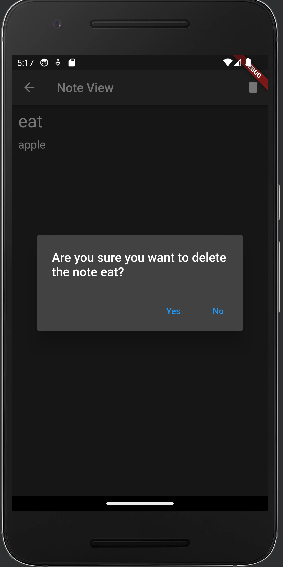
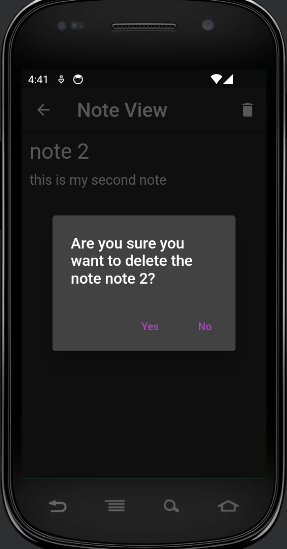
Applied light and dark theme

diff --git a/lib/module_screens/home_screen.dart b/lib/module_screens/home_screen.dart
@@ -20,18 +20,25 @@ class _HomeScreenState extends State<HomeScreen> with TickerProviderStateMixin{
       return notes.where((note) => note.category == category).toList();
     }
     return Scaffold(
+      backgroundColor: Theme.of(context).colorScheme.background,
       appBar: AppBar(
-        title: const Center(
+        backgroundColor: Theme.of(context).colorScheme.background,
+        title: Center(
           child: Text("Notes App",
           style: TextStyle(
-            color: Colors.tealAccent,
+            color: Theme.of(context).colorScheme.secondary,
             fontSize: 26.0
             ),
           ),
         ),
       ),
-      body: _selectedIndex == 0 ? (notes.isEmpty ? const Center(
-        child: Text('Create notes using the button below.'),
+      body: _selectedIndex == 0 ? (notes.isEmpty ? Center(
+        child: Text(
+          'Create notes using the button below.',
+          style: TextStyle(
+            color: Theme.of(context).colorScheme.secondary,
+          ),
+        ),
       ) : ListView.builder(
         itemCount: notes.length,
         itemBuilder: (BuildContext context, int index){
@@ -46,6 +53,7 @@ class _HomeScreenState extends State<HomeScreen> with TickerProviderStateMixin{
 
       //ListViewBuilder(notes: notes, length: notes.length, context: context, onNoteDeleted: onNoteDeleted, onCategoryChanged: onCategoryChanged),
       bottomNavigationBar: BottomNavigationBar(
+        backgroundColor: Theme.of(context).colorScheme.background,
         items: const <BottomNavigationBarItem> [
           BottomNavigationBarItem(
             icon: Icon(Icons.home),
@@ -65,8 +73,8 @@ class _HomeScreenState extends State<HomeScreen> with TickerProviderStateMixin{
           ),
         ],
         currentIndex: _selectedIndex,
-        unselectedItemColor: Colors.white,
-        selectedItemColor: Colors.tealAccent,
+        unselectedItemColor: Theme.of(context).colorScheme.secondary,
+        selectedItemColor: Theme.of(context).colorScheme.primary,
         iconSize: 30.0,
         selectedFontSize: 20.0,
         onTap: (int index) {
@@ -81,6 +89,7 @@ class _HomeScreenState extends State<HomeScreen> with TickerProviderStateMixin{
         },
       ),
       floatingActionButton: _selectedIndex == 0 ? FloatingActionButton(
+        backgroundColor: Colors.purple.shade400,
         onPressed: () {
           Navigator.of(context).push(MaterialPageRoute(builder: (context) => CreateNote(onNewNoteCreated: onNewNoteCreated)));
         },

diff --git a/lib/module_screens/note_view.dart b/lib/module_screens/note_view.dart
@@ -10,10 +10,22 @@ class NoteView extends StatelessWidget {
   @override
   Widget build(BuildContext context) {
     return Scaffold(
+      backgroundColor: Theme.of(context).colorScheme.background,
       appBar: AppBar(
-        title: const Text('Note View'),
+        iconTheme: IconThemeData(
+          color: Theme.of(context).colorScheme.secondary,
+        ),
+        backgroundColor: Theme.of(context).colorScheme.background,
+        title: Text(
+          'Note View',
+          style: TextStyle(
+            color: Theme.of(context).colorScheme.secondary,
+              fontSize: 26.0
+          ),
+        ),
         actions: [
           IconButton(
+            color: Theme.of(context).colorScheme.secondary,
               onPressed: (){
                 showDialog(
                     context: context,
@@ -51,8 +63,9 @@ class NoteView extends StatelessWidget {
           children: [
             Text(
               note.title,
-              style: const TextStyle(
-                  fontSize: 28
+              style: TextStyle(
+                fontSize: 28,
+                color: Theme.of(context).colorScheme.secondary,
               ),
             ),
             const SizedBox(
@@ -60,8 +73,9 @@ class NoteView extends StatelessWidget {
             ),
             Text(
               note.body,
-              style: const TextStyle(
-                  fontSize: 18
+              style: TextStyle(
+                fontSize: 18,
+                color: Theme.of(context).colorScheme.secondary,
               ),
             ),
           ],

diff --git a/lib/widgets/note_card.dart b/lib/widgets/note_card.dart
@@ -23,6 +23,7 @@ class _NoteCardState extends State<NoteCard> {
         Navigator.of(context).push(MaterialPageRoute(builder: (context)=> NoteView(note: widget.note, index: widget.index, onNoteDeleted: widget.onNoteDeleted)));
         },
       child: Card(
+        color: Theme.of(context).colorScheme.background,
         child: Padding(
           padding: const EdgeInsets.all(10.0),
           child: Column(
@@ -31,8 +32,9 @@ class _NoteCardState extends State<NoteCard> {
               ListTile(
                 title: Text(
                   widget.note.title,
-                  style: const TextStyle(
-                      fontSize: 18
+                  style: TextStyle(
+                      fontSize: 18,
+                      color: Theme.of(context).colorScheme.secondary,
                   ),
                 ),
                 trailing: DropDown(
@@ -45,10 +47,14 @@ class _NoteCardState extends State<NoteCard> {
               const SizedBox(
                 height: 10,
               ),
-              Text(
-                widget.note.body,
-                style: const TextStyle(
-                    fontSize: 18
+              Padding(
+                padding: const EdgeInsets.all(10.0),
+                child: Text(
+                  widget.note.body,
+                  style: TextStyle(
+                    fontSize: 18,
+                    color: Theme.of(context).colorScheme.secondary,
+                  ),
                 ),
               ),
             ],

diff --git a/lib/main.dart b/lib/main.dart
@@ -1,5 +1,6 @@
 import 'package:flutter/material.dart';
 import 'package:notes_app/module_screens/home_screen.dart';
+import 'package:notes_app/theme/theme.dart';
 
 void main() {
   runApp(const MyApp());
@@ -7,16 +8,13 @@ void main() {
 
 class MyApp extends StatelessWidget {
   const MyApp({super.key});
-
   // This widget is the root of your application.
   @override
   Widget build(BuildContext context) {
     return MaterialApp(
-      title: 'Flutter Demo',
-      theme: ThemeData(
-        primarySwatch: Colors.blue,
-        brightness: Brightness.dark
-      ),
+      debugShowCheckedModeBanner: false,
+      theme: lightMode,
+      darkTheme: darkMode,
       home: const HomeScreen(),
     );
   }

diff --git a/lib/theme/theme.dart b/lib/theme/theme.dart
@@ -1,0 +1,19 @@
+import 'package:flutter/material.dart';
+
+ThemeData lightMode = ThemeData(
+  brightness: Brightness.light,
+  colorScheme: ColorScheme.light(
+    background: Colors.grey.shade50,
+    primary: Colors.purple.shade400,
+    secondary: Colors.grey.shade900,
+  )
+);
+
+ThemeData darkMode = ThemeData(
+  brightness: Brightness.dark,
+  colorScheme: ColorScheme.dark(
+    background: Colors.grey.shade900,
+    primary: Colors.purple.shade400,
+    secondary: Colors.grey.shade400,
+  )
+);

diff --git a/lib/widgets/dropdown.dart b/lib/widgets/dropdown.dart
@@ -16,6 +16,9 @@ class _DropDownState extends State<DropDown> {
   @override
   Widget build(BuildContext context) {
     return DropdownButton<String>(
+      style: TextStyle(
+        color: Theme.of(context).colorScheme.secondary,
+      ),
       value: widget.note.category.isNotEmpty ? widget.note.category : null,
       hint: const Text("Select a category"),
       items: const [

diff --git a/lib/module_screens/create_note.dart b/lib/module_screens/create_note.dart
@@ -45,6 +45,7 @@ class _CreateNoteState extends State<CreateNote> {
         ),
       ),
       floatingActionButton: FloatingActionButton(
+        backgroundColor: Colors.purple.shade400,
         onPressed: (){
           if(titleController.text.isEmpty){
             return;
